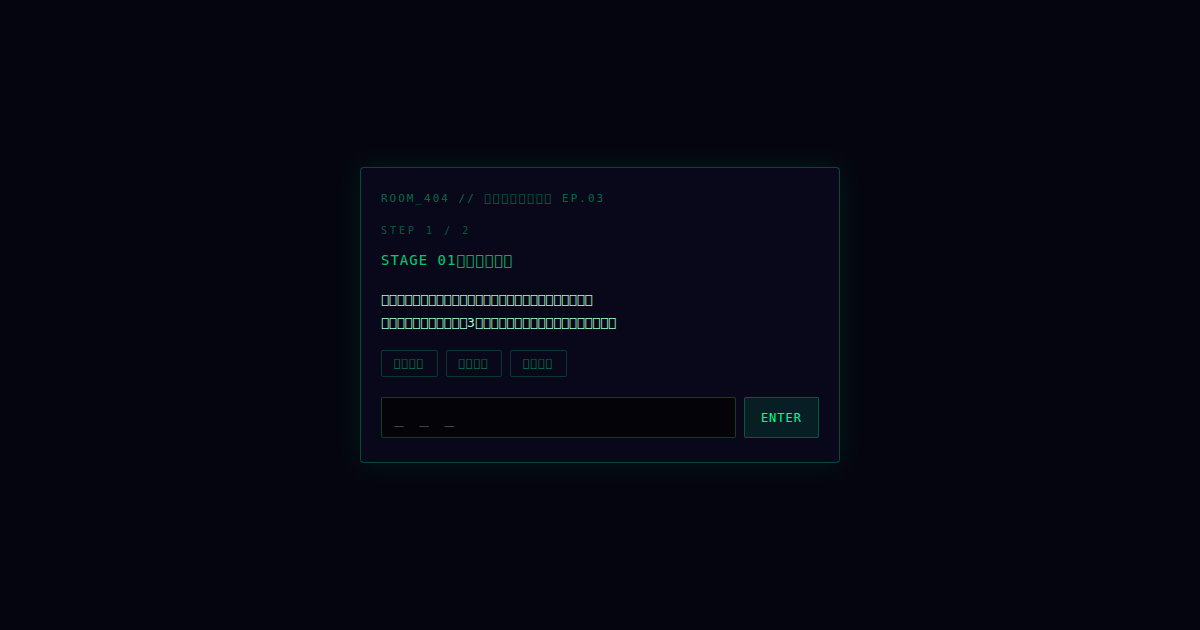
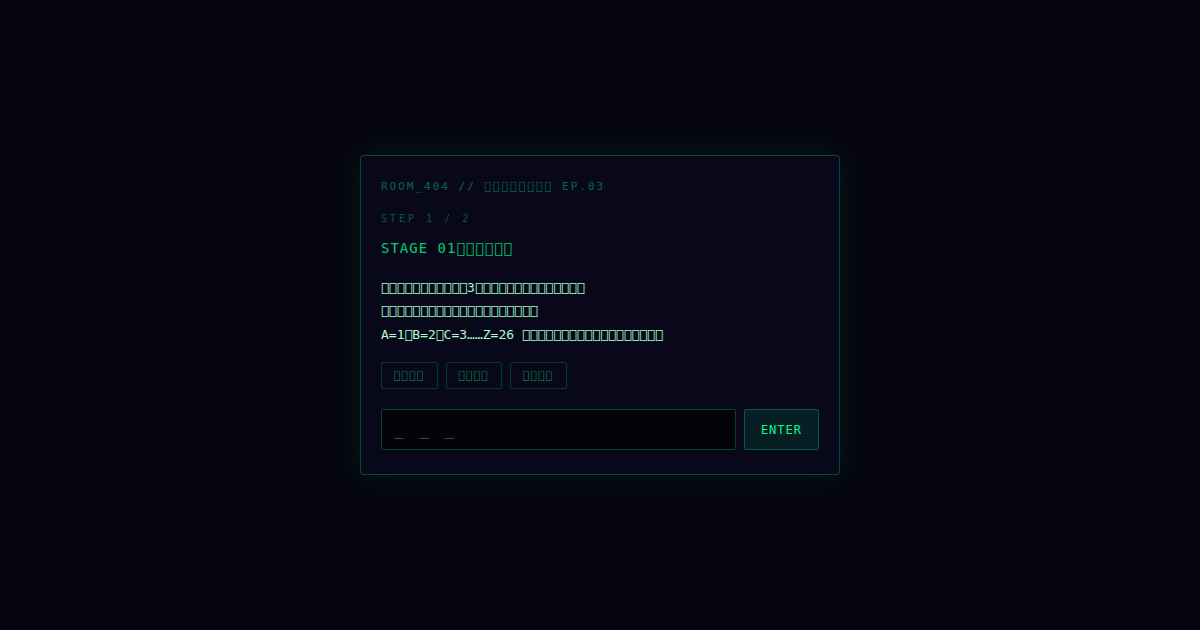
Add OGP images and meta tags

Changed region(s): [[0.3083, 0.2413, 0.6783, 0.6333], [0.3083, 0.6333, 0.6783, 0.754]]

diff --git a/ep03.html b/ep03.html
@@ -304,22 +304,23 @@
     <div class="stage-title">STAGE 01「開発日誌」</div>
 
     <div class="instruction">
-      上のリンクから「野々村礼の開発日誌」を読んでください。<br>
-      アルファベットで始まる3つの行の、最初の文字を並べてみよう。
+      上の開発日誌に含まれる3つの日付に注目してください。<br>
+      各日付の「日にち」を数字として取り出し、<br>
+      A=1・B=2・C=3……Z=26 の対応でアルファベットに変換しよう。
     </div>
 
     <div class="hint-area">
       <div>
         <button class="hint-btn" id="h1-btn1" onclick="toggleHint('h1-hint1','h1-btn1',null)">ヒント①</button>
-        <div class="hint-text" id="h1-hint1">開発日誌の本文はほぼ日本語だが、アルファベットで始まる行が3つある。まずその3行だけを探してみよう。</div>
+        <div class="hint-text" id="h1-hint1">3つの日誌ブロックはそれぞれ [LOG: YYYY-MM-DD] の形式で日付が記録されている。その末尾2桁（DD）が「日にち」だ。</div>
       </div>
       <div>
         <button class="hint-btn" id="h1-btn2" onclick="toggleHint('h1-hint2','h1-btn2','h1-hint1')">ヒント②</button>
-        <div class="hint-text" id="h1-hint2">3つの行はそれぞれ異なる文字で始まっている。その先頭の1文字ずつを、上から順番に並べてみよう。</div>
+        <div class="hint-text" id="h1-hint2">3つの日にちをそれぞれ数字で読み取ろう。2021-09-18 なら「18」、2022-07-05 なら「5」、2023-10-09 なら「9」だ。</div>
       </div>
       <div>
         <button class="hint-btn" id="h1-btn3" onclick="toggleHint('h1-hint3','h1-btn3','h1-hint2')">ヒント③</button>
-        <div class="hint-text" id="h1-hint3">R、E、I の3文字。この物語に登場するある人物の名前を、ローマ字で読んでみよう。</div>
+        <div class="hint-text" id="h1-hint3">A=1、B=2……R=18、E=5、I=9。3つを上から順に並べると、この物語に登場するある人物の名前になる。</div>
       </div>
     </div>
 
